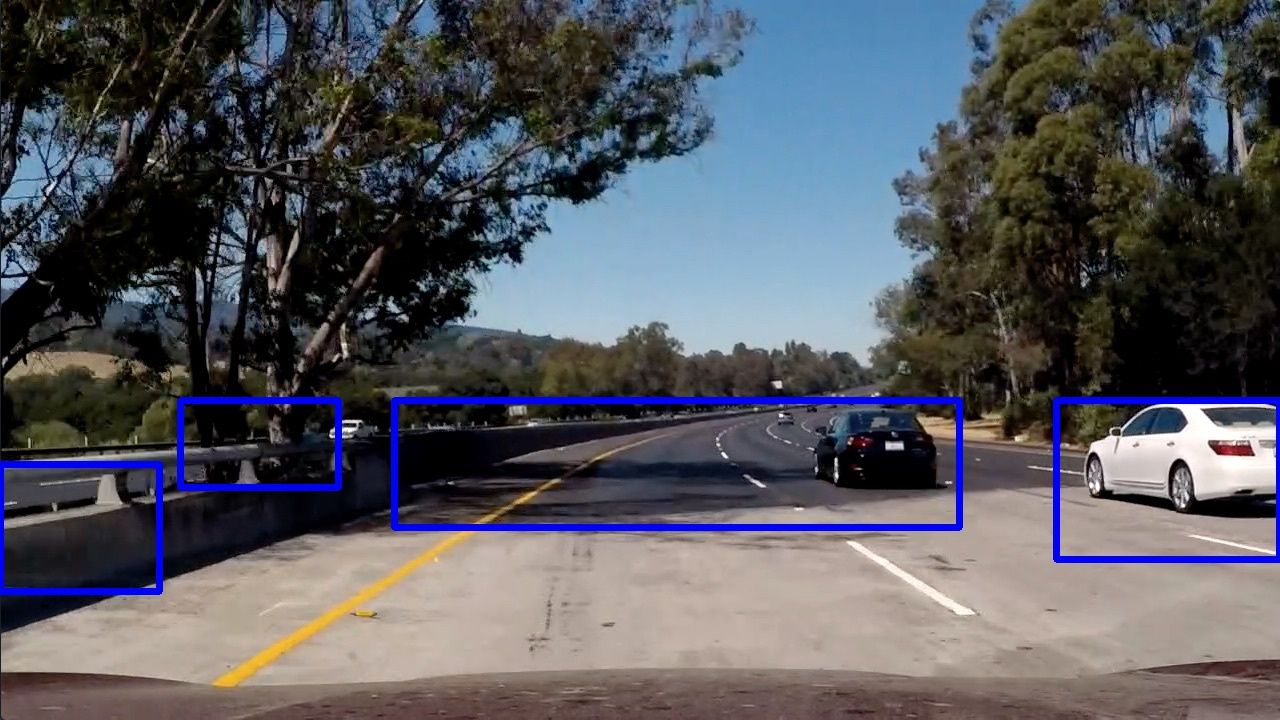
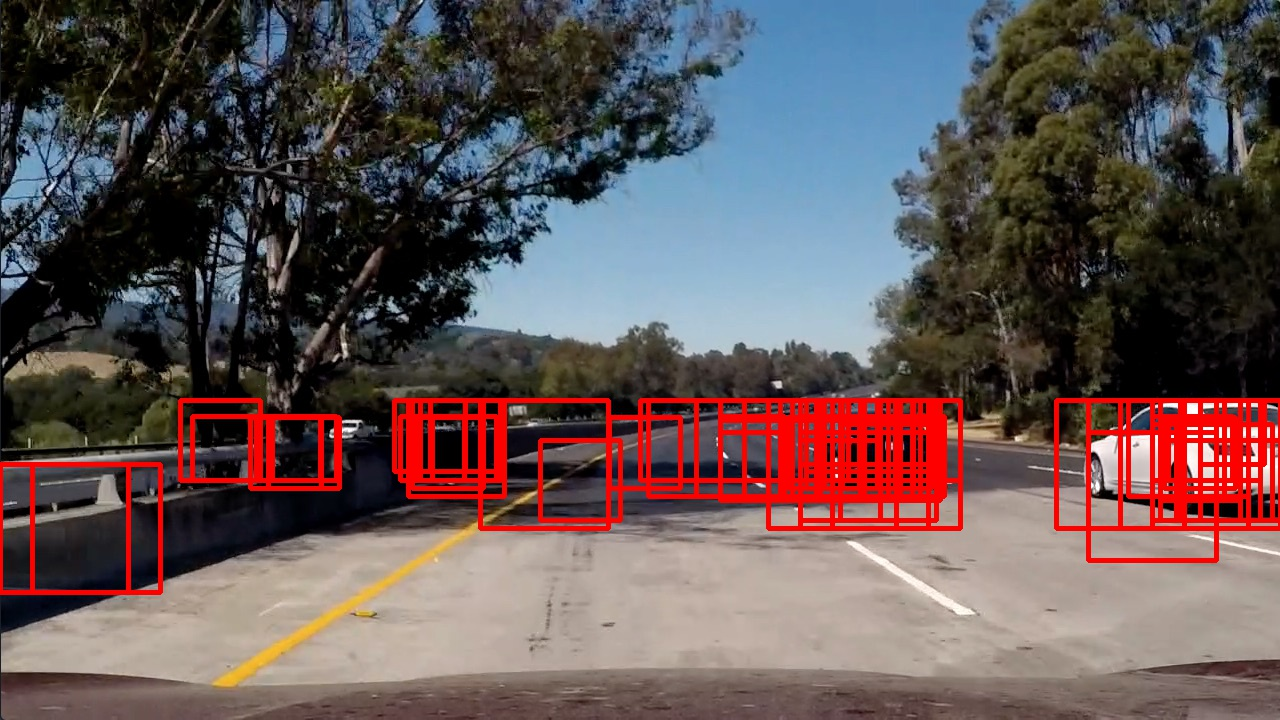
Describe writeup

Changed region(s): [[0.0, 0.55, 0.75, 0.825], [0.8125, 0.55, 1.0, 0.7944]]

diff --git a/feature_tools.py b/feature_tools.py
@@ -121,3 +121,49 @@ def extract_features(imgs, color_space='RGB', spatial_size=(32, 32),
                                             spatial_feat, hist_feat, hog_feat))
     # Return list of feature vectors
     return features
+
+
+# Define a function that takes an image,
+# start and stop positions in both x and y,
+# window size (x and y dimensions),
+# and overlap fraction (for both x and y)
+def slide_window(img, x_start_stop=[None, None], y_start_stop=[None, None],
+                 xy_window=(64, 64), xy_overlap=(0.5, 0.5)):
+    # If x and/or y start/stop positions not defined, set to image size
+    if x_start_stop[0] is None:
+        x_start_stop[0] = 0
+    if x_start_stop[1] is None:
+        x_start_stop[1] = img.shape[1]
+    if y_start_stop[0] is None:
+        y_start_stop[0] = 0
+    if y_start_stop[1] is None:
+        y_start_stop[1] = img.shape[0]
+    # Compute the span of the region to be searched
+    xspan = x_start_stop[1] - x_start_stop[0]
+    yspan = y_start_stop[1] - y_start_stop[0]
+    # Compute the number of pixels per step in x/y
+    nx_pix_per_step = np.int(xy_window[0] * (1 - xy_overlap[0]))
+    ny_pix_per_step = np.int(xy_window[1] * (1 - xy_overlap[1]))
+    # Compute the number of windows in x/y
+    nx_buffer = np.int(xy_window[0] * (xy_overlap[0]))
+    ny_buffer = np.int(xy_window[1] * (xy_overlap[1]))
+    nx_windows = np.int((xspan - nx_buffer) / nx_pix_per_step)
+    ny_windows = np.int((yspan - ny_buffer) / ny_pix_per_step)
+    # Initialize a list to append window positions to
+    window_list = []
+    # Loop through finding x and y window positions
+    # Note: you could vectorize this step, but in practice
+    # you'll be considering windows one by one with your
+    # classifier, so looping makes sense
+    for ys in range(ny_windows):
+        for xs in range(nx_windows):
+            # Calculate window position
+            startx = xs * nx_pix_per_step + x_start_stop[0]
+            endx = startx + xy_window[0]
+            starty = ys * ny_pix_per_step + y_start_stop[0]
+            endy = starty + xy_window[1]
+
+            # Append window position to list
+            window_list.append(((startx, starty), (endx, endy)))
+    # Return the list of windows
+    return window_list

diff --git a/find_cars.py b/find_cars.py
@@ -57,17 +57,18 @@ def main(video_clip_path):
                 cv2.rectangle(img, bbox[0], bbox[1], (255, 0, 0), 4)  # Draw the box
         return
 
-    def process_test_images(n_box_min_thr=0):
+    def process_test_images(n_box_min_thr=0, enable_filter=True):
         for img_path in glob.glob('test_images/*.jpg'):
             print('processing: ', img_path)
             img = cv2.imread(img_path)
             img = cv2.cvtColor(img, cv2.COLOR_BGR2RGB)
 
             bboxes = find_car_multiscale(img, ystart, scale_height_list)
-            filter_and_draw_bboxes(img, bboxes, n_box_min_thr)
+            filter_and_draw_bboxes(img, bboxes, n_box_min_thr, enable_filter)
 
             img = cv2.cvtColor(img, cv2.COLOR_RGB2BGR)
             cv2.imwrite(os.path.join('output_images', os.path.basename(img_path)), img)
+            # cv2.imwrite(os.path.join(os.path.basename(img_path)), heatmap * 2)
         return
 
     def process_test_video(n_frame_history=1, n_box_min_thr=0, enable_filter=True):
@@ -92,7 +93,8 @@ def main(video_clip_path):
 
     """ Excecution of pipeline """
     if video_clip_path is None:
-        process_test_images(n_box_min_thr=0)
+        process_test_images(n_box_min_thr=0, enable_filter=False)
+        # process_test_images(n_box_min_thr=4)
     else:
         process_test_video(10, n_box_min_thr=40)
         # process_test_video(1, n_box_min_thr=0, enable_filter=False)
@@ -170,10 +172,8 @@ def find_cars(img, ystart, ystop, scale, svc, X_scaler,
                 win_draw = np.int(window * scale)
                 box = ((xbox_left, ytop_draw + ystart),
                        (xbox_left + win_draw, ytop_draw + win_draw + ystart))
-                # cv2.rectangle(draw_img, *box, (0, 0, 255), 6)
                 bboxes.append(box)
 
-    # return draw_img
     return bboxes
 
 

diff --git a/writeup_report.md b/writeup_report.md
@@ -1,7 +1,3 @@
-## Writeup Template
-### You can use this file as a template for your writeup if you want to submit it as a markdown file, but feel free to use some other method and submit a pdf if you prefer.
-
----
 
 **Vehicle Detection Project**
 
@@ -15,14 +11,14 @@ The goals / steps of this project are the following:
 * Estimate a bounding box for vehicles detected.
 
 [//]: # (Image References)
-[image1]: ./examples/car_not_car.png
-[image2]: ./examples/HOG_example.jpg
-[image3]: ./examples/sliding_windows.jpg
-[image4]: ./examples/sliding_window.jpg
-[image5]: ./examples/bboxes_and_heat.png
-[image6]: ./examples/labels_map.png
-[image7]: ./examples/output_bboxes.png
-[video1]: ./project_video.mp4
+[image1]: ./example_images/car_notcar.png
+[image2]: ./example_images/hog_car_notcar.png
+[image3]: ./example_images/slide_window.png
+[image4]: ./example_images/test3_found.jpg
+[image5]: ./example_images/test4_found.jpg
+[image6]: ./example_images/test4_heatmap.jpg
+[image7]: ./example_images/test4_filtered.jpg
+[video1]: ./output_videos/project_video.mp4
 
 ## [Rubric](https://review.udacity.com/#!/rubrics/513/view) Points
 ### Here I will consider the rubric points individually and describe how I addressed each point in my implementation.  
@@ -30,15 +26,11 @@ The goals / steps of this project are the following:
 ---
 ### Writeup / README
 
-#### 1. Provide a Writeup / README that includes all the rubric points and how you addressed each one.  You can submit your writeup as markdown or pdf.  [Here](https://github.com/udacity/CarND-Vehicle-Detection/blob/master/writeup_template.md) is a template writeup for this project you can use as a guide and a starting point.  
-
-You're reading it!
-
 ### Histogram of Oriented Gradients (HOG)
 
 #### 1. Explain how (and identify where in your code) you extracted HOG features from the training images.
 
-The code for this step is contained in the first code cell of the IPython notebook (or in lines # through # of the file called `some_file.py`).  
+The code for this step is contained in [train_classifier.py](train_classifier.py) and [feature_tools.py](feature_tools.py).
 
 I started by reading in all the `vehicle` and `non-vehicle` images.  Here is an example of one of each of the `vehicle` and `non-vehicle` classes:
 
@@ -46,30 +38,72 @@ I started by reading in all the `vehicle` and `non-vehicle` images.  Here is an 
 
 I then explored different color spaces and different `skimage.hog()` parameters (`orientations`, `pixels_per_cell`, and `cells_per_block`).  I grabbed random images from each of the two classes and displayed them to get a feel for what the `skimage.hog()` output looks like.
 
-Here is an example using the `YCrCb` color space and HOG parameters of `orientations=8`, `pixels_per_cell=(8, 8)` and `cells_per_block=(2, 2)`:
-
+Here is an example using the `YCrCb` color space and HOG parameters of `orientations=9`, `pixels_per_cell=(8, 8)` and `cells_per_block=(2, 2)`:
 
 ![alt text][image2]
 
 #### 2. Explain how you settled on your final choice of HOG parameters.
 
-I tried various combinations of parameters and...
+I tried various combinations of parameters and selected the values with which the learning perfomance was best. 
+
+| Parameter           | Value   | 
+|:-------------------:|:-------------:| 
+| color_space         | YCrCb        | 
+| HOG orientations    | 9      |
+| HOG pixels per cell | 8      |
+| HOG cells per block | 2       |
+| HOG channel         | ALL    |
+
 
 #### 3. Describe how (and identify where in your code) you trained a classifier using your selected HOG features (and color features if you used them).
 
-I trained a linear SVM using...
+The code for this step is contained in [train_classifier.py](train_classifier.py).
+
+##### Data set
+
+The data set I used for training is shown in the below table. They are shuffled and splitted into data set for training (80%) and data set for testing (20%).
+
+|           | Num of images   | 
+|:----------:|:------:| 
+| Vehicle     | 8792 |
+| Non Vehicle | 8968 |
+
+##### Training method
+
+Regarding the method for training, Linear SVC is used.
+
+##### The features extracted from image
+
+The following features are extracted from image and used for training.
+
+* HOG features shown in the above section.
+* Spacial color binning feature with dimensions (32, 32)
+* Color Histogram of 32 bin
+
+The feature values are scaled by StandardScaler of scikit_learn and that scaler is applied when the trained classifier is used for detecting.
+
+##### Performance of the training
+
+The test accuracy of the model was **99.01%**.
 
 ### Sliding Window Search
 
 #### 1. Describe how (and identify where in your code) you implemented a sliding window search.  How did you decide what scales to search and how much to overlap windows?
 
-I decided to search random window positions at random scales all over the image and came up with this (ok just kidding I didn't actually ;):
+The code for this step is contained in the function find_car_multiscale() of [find_car.py](find_car.py).
+Applying various size of window for all over the image requires huge computing cost. So I considered the following technique to reduce the computing cost.
+
+* Search only bottom half of the image since there should be no cars flying above a road.
+* In case of small scaled windows, search is performed only for 'far' area. This is because the longer the distance of other car, the smaller it appears on the image.
+
+The picture below illustrates the windows for scale=1.0 and scale=2.0. The overlap between next window is 25%.
 
 ![alt text][image3]
 
 #### 2. Show some examples of test images to demonstrate how your pipeline is working.  What did you do to optimize the performance of your classifier?
 
-Ultimately I searched on two scales using YCrCb 3-channel HOG features plus spatially binned color and histograms of color in the feature vector, which provided a nice result.  Here are some example images:
+Ultimately I searched using YCrCb 3-channel HOG features plus spatially binned color and histograms of color in the feature vector. The variation of scales of window is : `1.0, 1.12, 1.25, 1.5, 2.0`.
+Here are some example images:
 
 ![alt text][image4]
 ---
@@ -77,25 +111,27 @@ Ultimately I searched on two scales using YCrCb 3-channel HOG features plus spat
 ### Video Implementation
 
 #### 1. Provide a link to your final video output.  Your pipeline should perform reasonably well on the entire project video (somewhat wobbly or unstable bounding boxes are ok as long as you are identifying the vehicles most of the time with minimal false positives.)
-Here's a [link to my video result](./project_video.mp4)
+Here's a [link to my video result](./output_videos/project_video.mp4)
 
 
 #### 2. Describe how (and identify where in your code) you implemented some kind of filter for false positives and some method for combining overlapping bounding boxes.
 
-I recorded the positions of positive detections in each frame of the video.  From the positive detections I created a heatmap and then thresholded that map to identify vehicle positions.  I then used `scipy.ndimage.measurements.label()` to identify individual blobs in the heatmap.  I then assumed each blob corresponded to a vehicle.  I constructed bounding boxes to cover the area of each blob detected.  
+The code for this step is contained in [bbox_filter.py](bbox_filter.py) and [find_car.py](find_car.py).
+
+I recorded the positions of positive detections in each frame of the video. These positions are collected for several frames as "history". From the positive detections I created a heatmap and then thresholded that map to identify vehicle positions.  I then used `scipy.ndimage.measurements.label()` to identify individual blobs in the heatmap.  I then assumed each blob corresponded to a vehicle.  I constructed bounding boxes to cover the area of each blob detected.
+
+I set the number of frames for history **10**. The threshold to filter out is **40**.
 
 Here's an example result showing the heatmap from a series of frames of video, the result of `scipy.ndimage.measurements.label()` and the bounding boxes then overlaid on the last frame of video:
 
-### Here are six frames and their corresponding heatmaps:
+### Here are frames and their corresponding heatmaps:
 
 ![alt text][image5]
-
-### Here is the output of `scipy.ndimage.measurements.label()` on the integrated heatmap from all six frames:
 ![alt text][image6]
 
 ### Here the resulting bounding boxes are drawn onto the last frame in the series:
-![alt text][image7]
 
+![alt text][image7]
 
 
 ---
@@ -104,5 +140,11 @@ Here's an example result showing the heatmap from a series of frames of video, t
 
 #### 1. Briefly discuss any problems / issues you faced in your implementation of this project.  Where will your pipeline likely fail?  What could you do to make it more robust?
 
-Here I'll talk about the approach I took, what techniques I used, what worked and why, where the pipeline might fail and how I might improve it if I were going to pursue this project further.  
+* Performance is not enough for real time processing
+  * It took about 50 minutes to process project_video.mp4 on my desktop PC which has only Intel GPU integrated in CPU.
+  * Improvement by algorithm
+    * Once the car is detected, we can estimate the velocity of it and predict the position in next frame. Considering that point will reduce the unncesarry search with window.
+  * Improvement by computing
+    * If OpenCV/numpy is accelerated with GPU, the performance might be much better.
+
 
